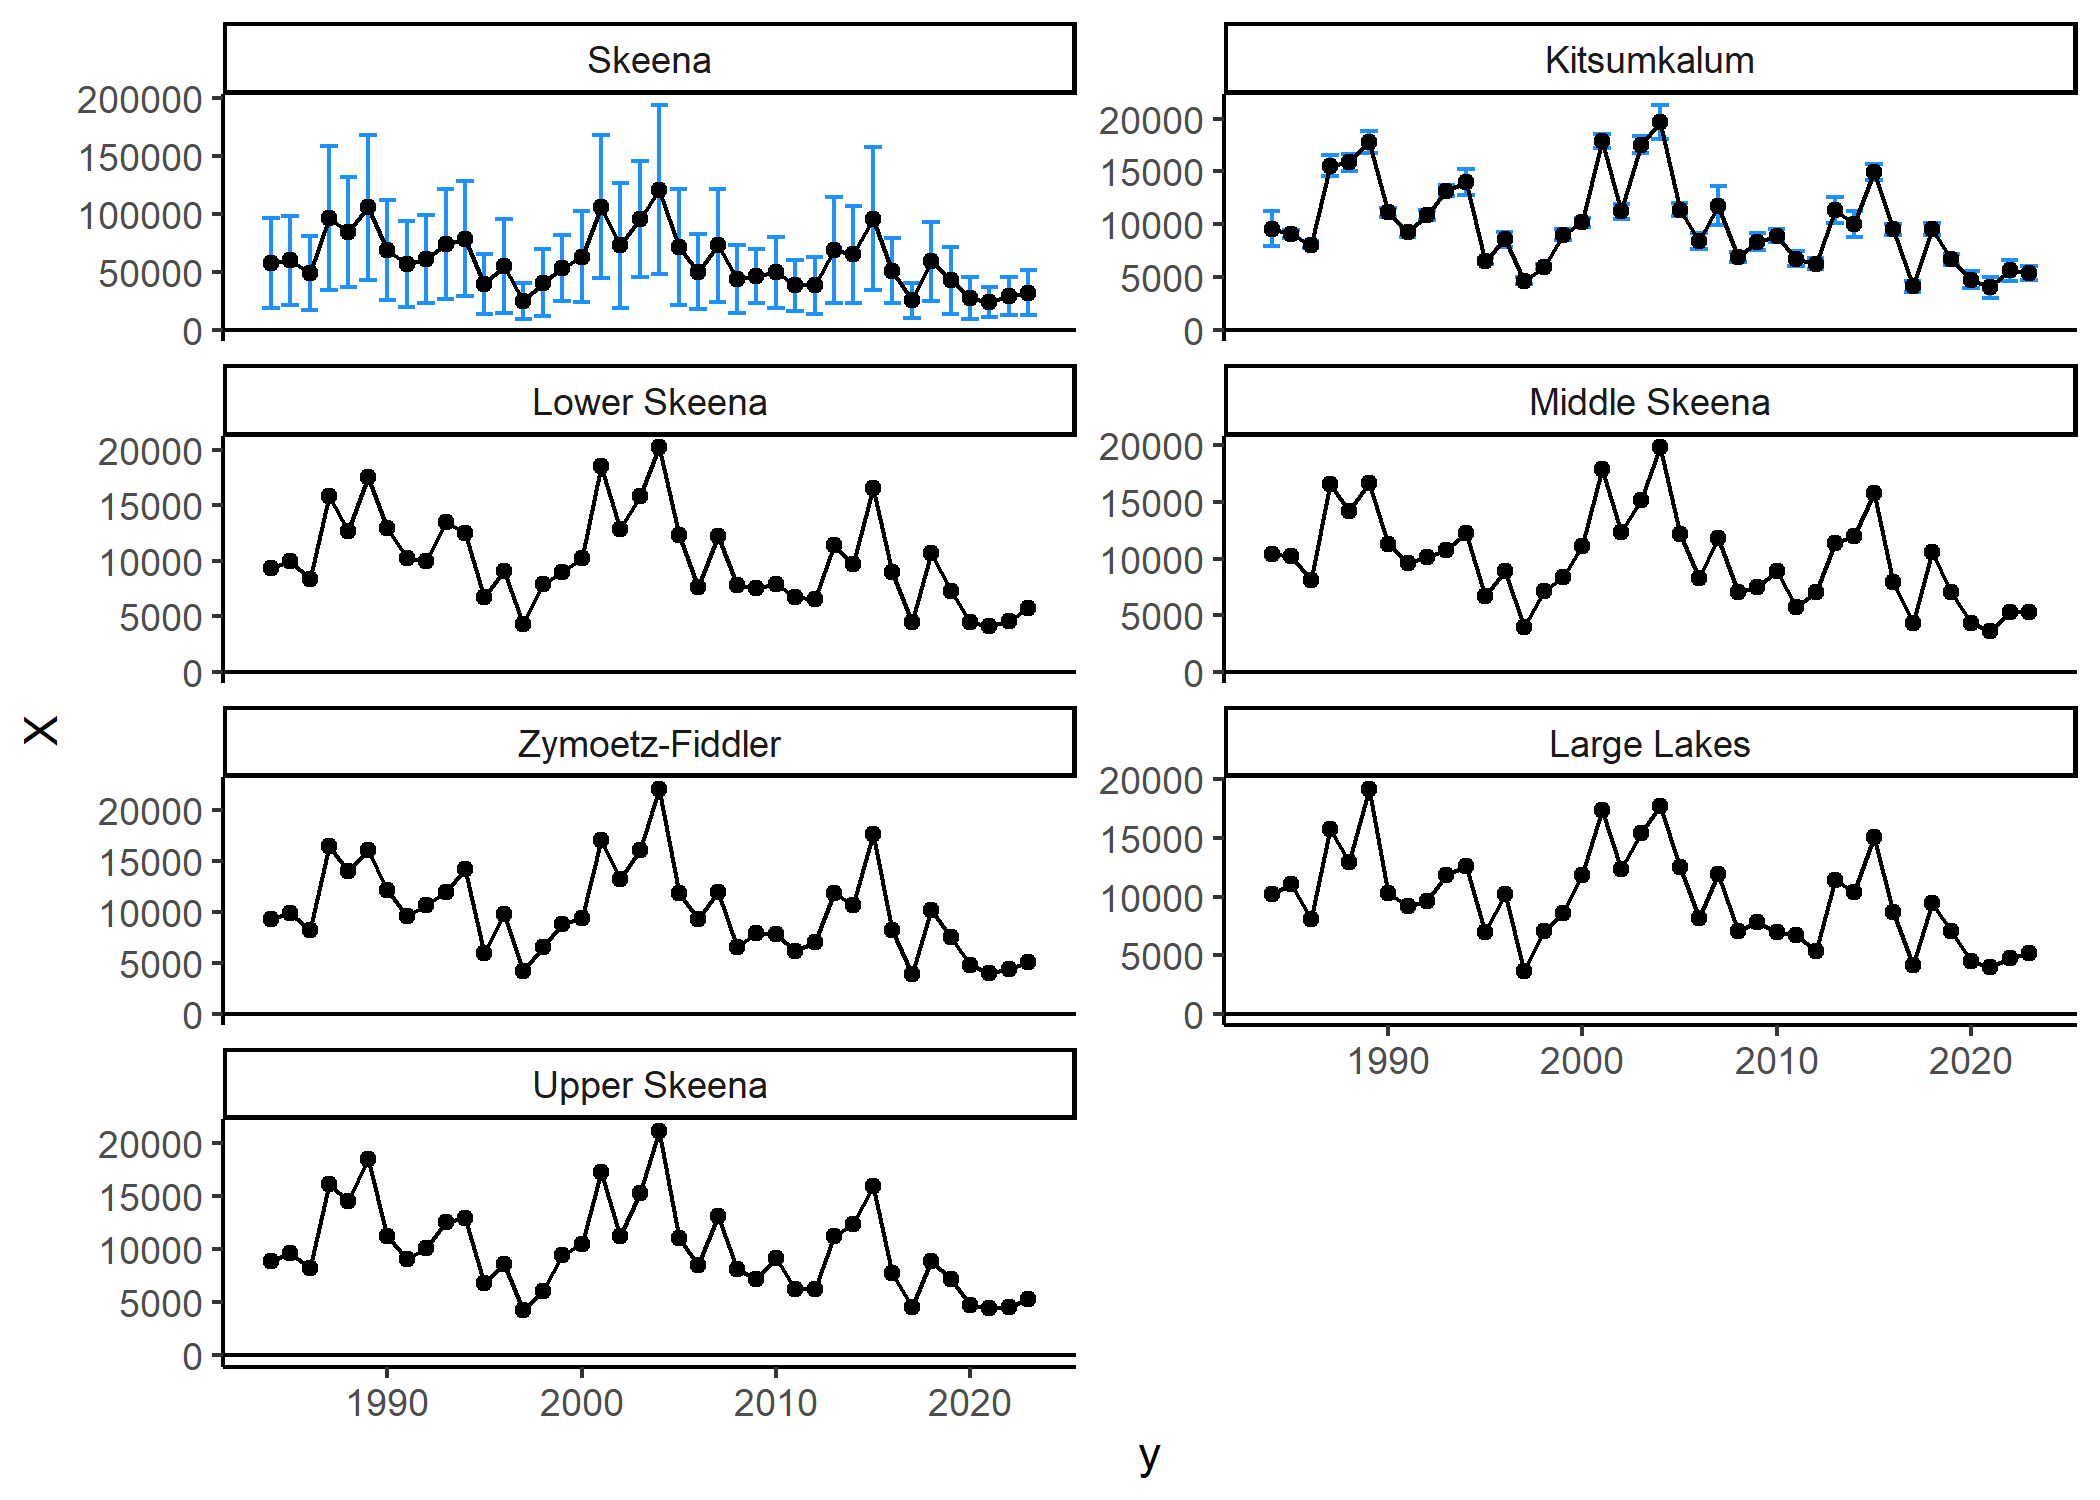
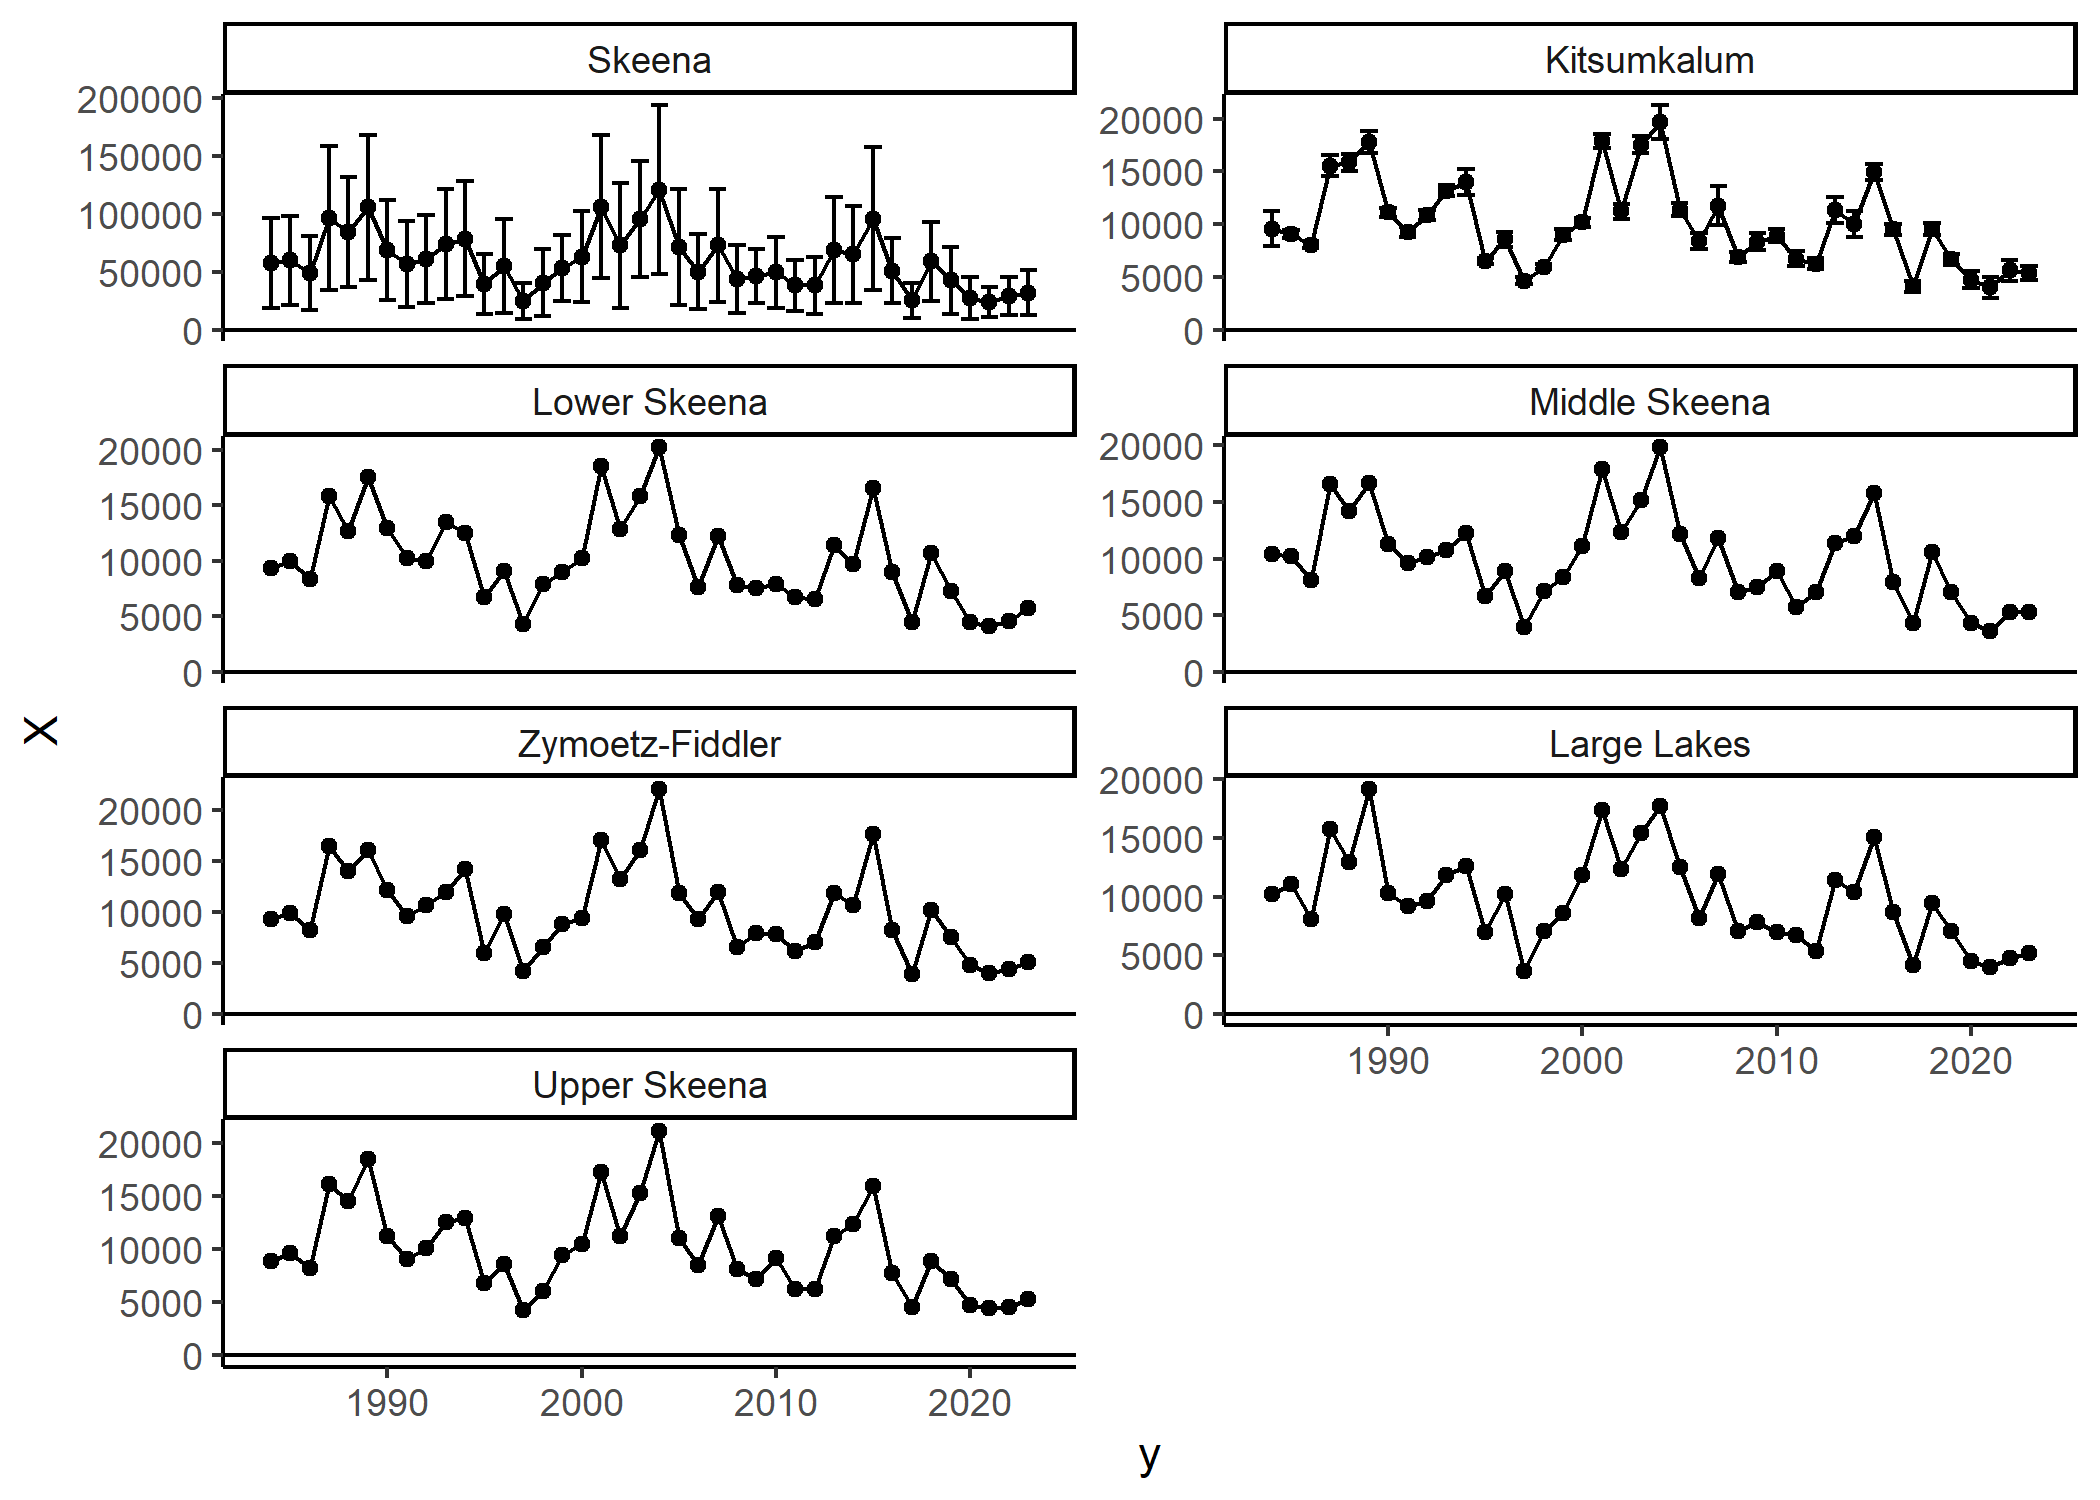
Update readme with spawners

Changed region(s): [[0.1238, 0.092, 0.4952, 0.2147]]

diff --git a/README.md b/README.md
@@ -78,7 +78,7 @@ X <- get_X(P_tilde = res$P_tilde, sigma_P_tilde = res$sigma_P_tilde, K= k$kitsum
 dt <- X$df_merged
 
 ggplot(dt, aes(y = X, x = y, group = i)) +
-  geom_errorbar( aes( ymin = X - sigma_X, ymax = X + sigma_X), colour="dodgerblue") +
+  geom_errorbar( aes( ymin = X - sigma_X, ymax = X + sigma_X)) +
   geom_point() +
   geom_line() +
   facet_wrap(~i, ncol=2, scales = "free_y") +
@@ -99,26 +99,46 @@ E <- get_E(K = k$kitsumkalum_escapement, X = X$X, tau_F_U = tau_F_U,
      upper_populations = c("Upper Skeena", "Middle Skeena", "Large Lakes"))
 de <- E$df
 
-# ggplot(data = de, aes(y = E, x = y, group = i)) +
-#   geom_point() +
-#   geom_line() +
-#   facet_wrap(~i, ncol=2, scales = "free_y") +
-#   geom_hline(aes(yintercept=0)) +
-#   theme_classic()
-#   
 
 ggplot(dt, aes(y = X, x = y, group = i)) +
-  geom_errorbar( aes( ymin = X - sigma_X, ymax = X + sigma_X), colour="dodgerblue") +
+  geom_errorbar( aes( ymin = X - sigma_X, ymax = X + sigma_X)) +
   geom_point() +
   geom_line() +
-  geom_line(data = de, aes(y = E, x = y, group=i), colour="red") +
+  geom_line(data = de, aes(y = E, x = y, group=i), colour="gray") +
   facet_wrap(~i, ncol=2, scales = "free_y") +
-  ylab("Return to Terrace (X) in black, escapement (E) in red") +
+  ylab("Return to Terrace (X) in black, escapement (E) in gray") +
   geom_hline(aes(yintercept=0)) +
   theme_classic()
 ```
 
 <img src="man/figures/README-example_E-1.png" width="100%" />
+
+Get spawners for each population, plot with returns to Terrace and
+escapement (note, will only be different for Skeena aggregate and
+Kitsumkalum, since brood removals are only for Kitsumkalum).
+
+``` r
+# make up brood removal data. Much larger than actual values, so that it is visible on plots. 
+B <- sample(2000:3000, size=length(k$y), replace=TRUE)
+S <- get_S(E = E$E, B = B, 
+     brood_population = "Kitsumkalum",
+     aggregate_population = "Skeena")
+ds <- S$df
+
+
+ggplot(dt, aes(y = X, x = y, group = i)) +
+  geom_errorbar( aes( ymin = X - sigma_X, ymax = X + sigma_X)) +
+  geom_point() +
+  geom_line() +
+  geom_line(data = de, aes(y = E, x = y, group=i), colour="gray") +
+  geom_line(data = ds, aes(y = S, x = y, group=i), colour="dodgerblue", linetype=2) +
+  facet_wrap(~i, ncol=2, scales = "free_y") +
+  ylab("Return to Terrace (X) in black, escapement (E) in gray,/nandspawners (S) in blue") +
+  geom_hline(aes(yintercept=0)) +
+  theme_classic()
+```
+
+<img src="man/figures/README-example_S-1.png" width="100%" />
 
 <!-- What is special about using `README.Rmd` instead of just `README.md`? You can include R chunks like so: -->
 <!-- ```{r cars} -->
